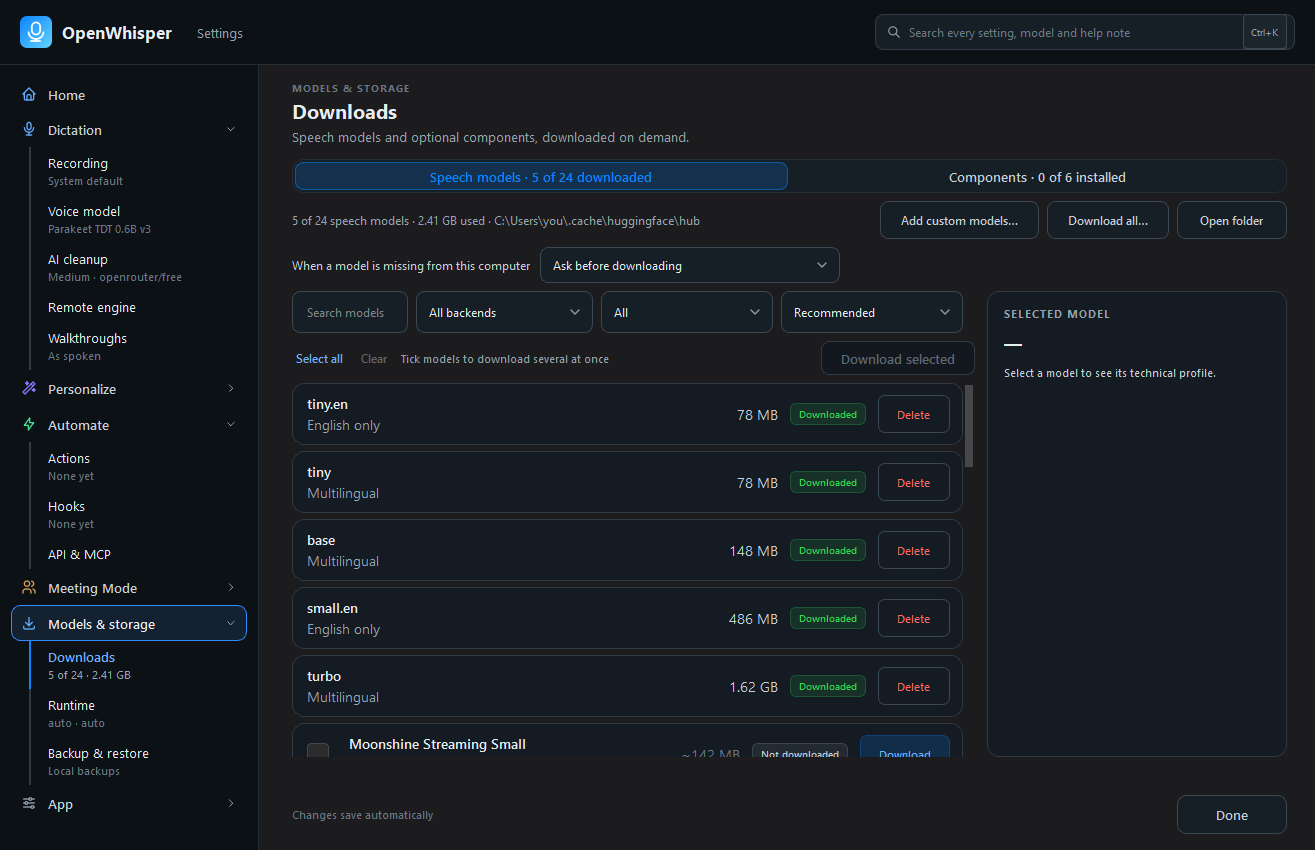
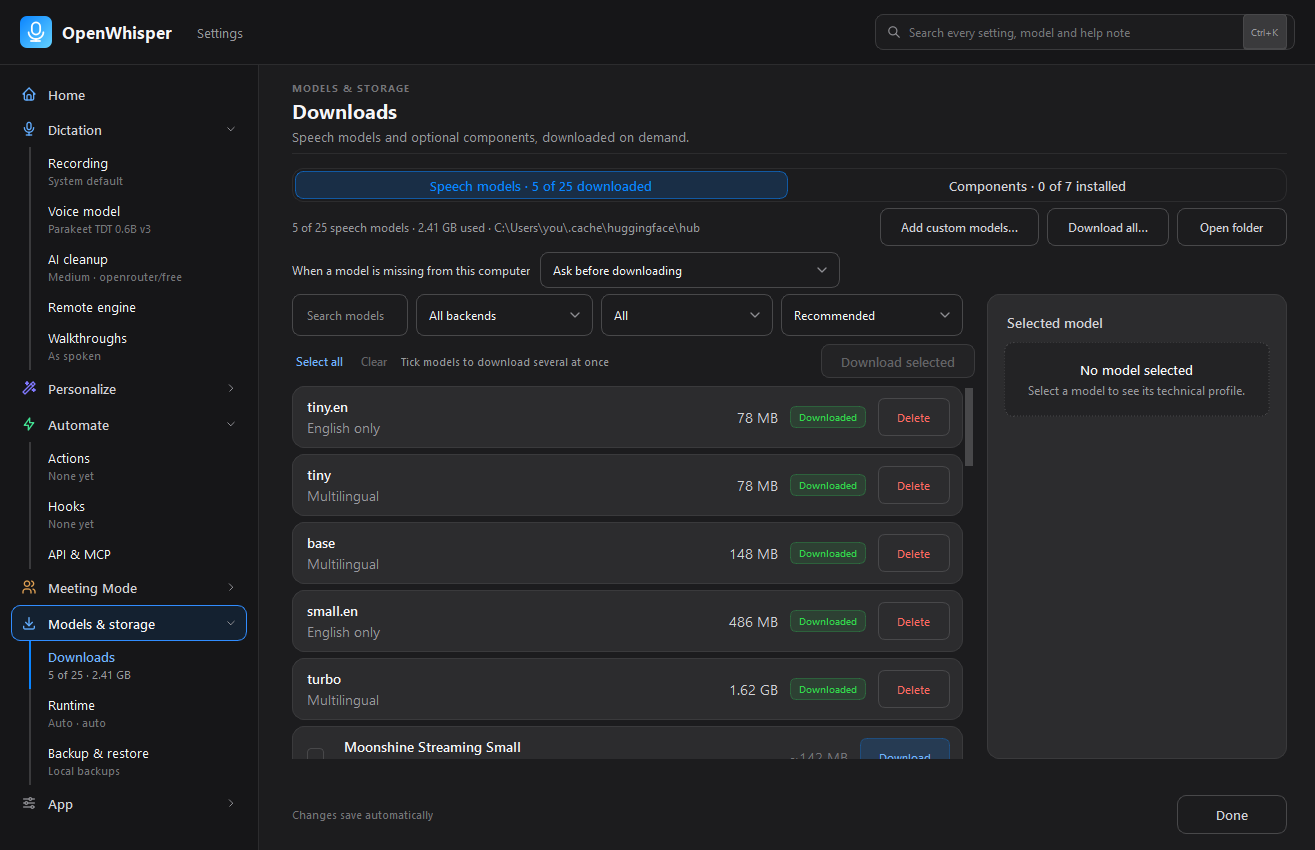
Bring the README up to date with 2.8.8
- List the Paste latest walkthrough shortcut with the default hotkeys
- Say that macOS screen recording permission also covers walkthrough screenshots
- Re-render the Settings screenshots with the current look

diff --git a/README.md b/README.md
@@ -61,7 +61,7 @@ Downloads include `SHA256SUMS.txt` for verification. Compare your file's hash us
 
 ### macOS permissions
 
-In **System Settings → Privacy & Security**, allow **Microphone** for recording, **Screen & System Audio Recording** for meeting audio, and **Accessibility** for auto-paste. You can copy transcripts without Accessibility.
+In **System Settings → Privacy & Security**, allow **Microphone** for recording, **Screen & System Audio Recording** for meeting audio and walkthrough screenshots, and **Accessibility** for auto-paste. You can copy transcripts without Accessibility.
 
 **Settings → App → General → Set up auto-paste…** shows which app to allow. If permission breaks after an update, remove its old entry, add the app again, and restart.
 
@@ -149,6 +149,7 @@ Change shortcuts and choose **Toggle** or **Push and hold** in **Settings → Ap
 | Cancel | Numpad `-` | `Control+Option+Escape` |
 | Enable/disable program | `Ctrl+Alt+Numpad *` | `Control+Option+Shift+R` |
 | Minimize to tray | `Ctrl+Alt+M` | `Control+Option+M` |
+| Paste latest walkthrough | `Ctrl+Shift+F12` | `Control+Shift+F12` |
 
 In push-and-hold mode, double-tap the record shortcut to keep recording hands-free, then press it again to stop. Command Mode, the Scratchpad, switching dictation language, and pasting the original of your last dictation have optional shortcuts with no default. On Windows and X11, mouse side buttons (Mouse 4 and Mouse 5) can be shortcuts too.
 
